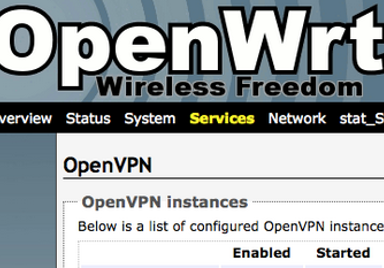
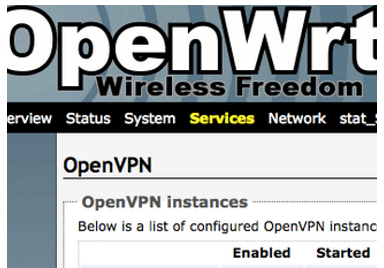
Pequeños cambios de diseño

diff --git a/css/style-desktop.css b/css/style-desktop.css
@@ -108,7 +108,7 @@
 
 	.wrapper
 	{
-		padding: 4em 0 20em 0;
+		padding: 8em 0 16em 0;
 		text-align: center;
 	}
 	
